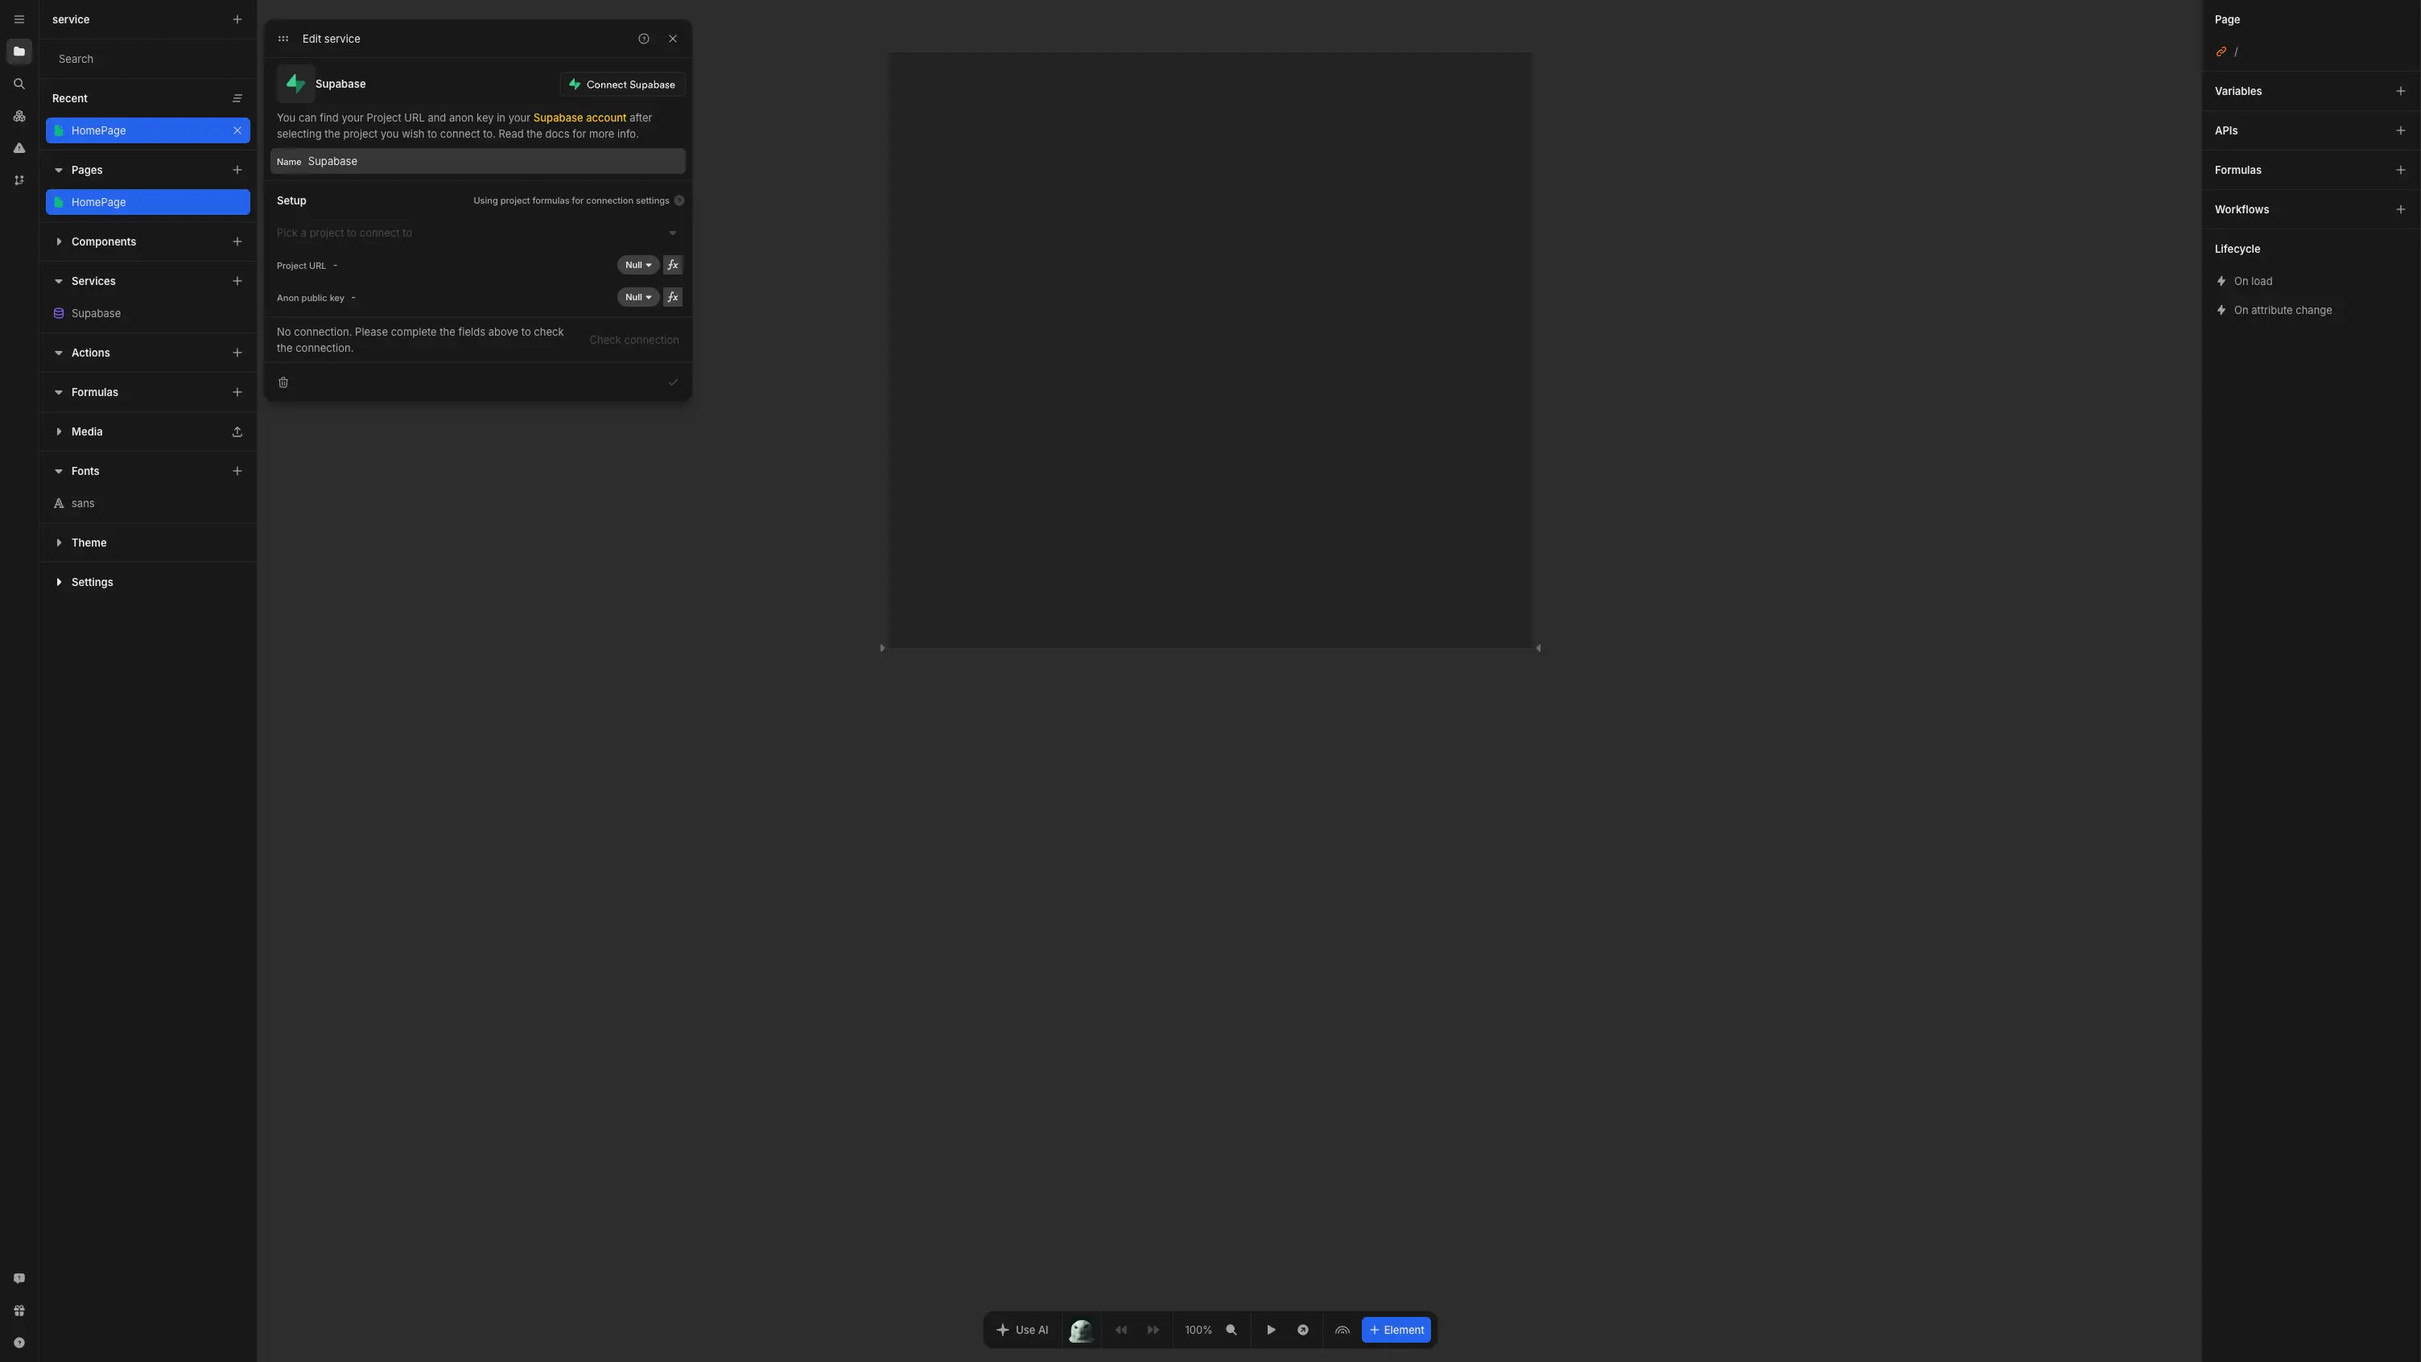
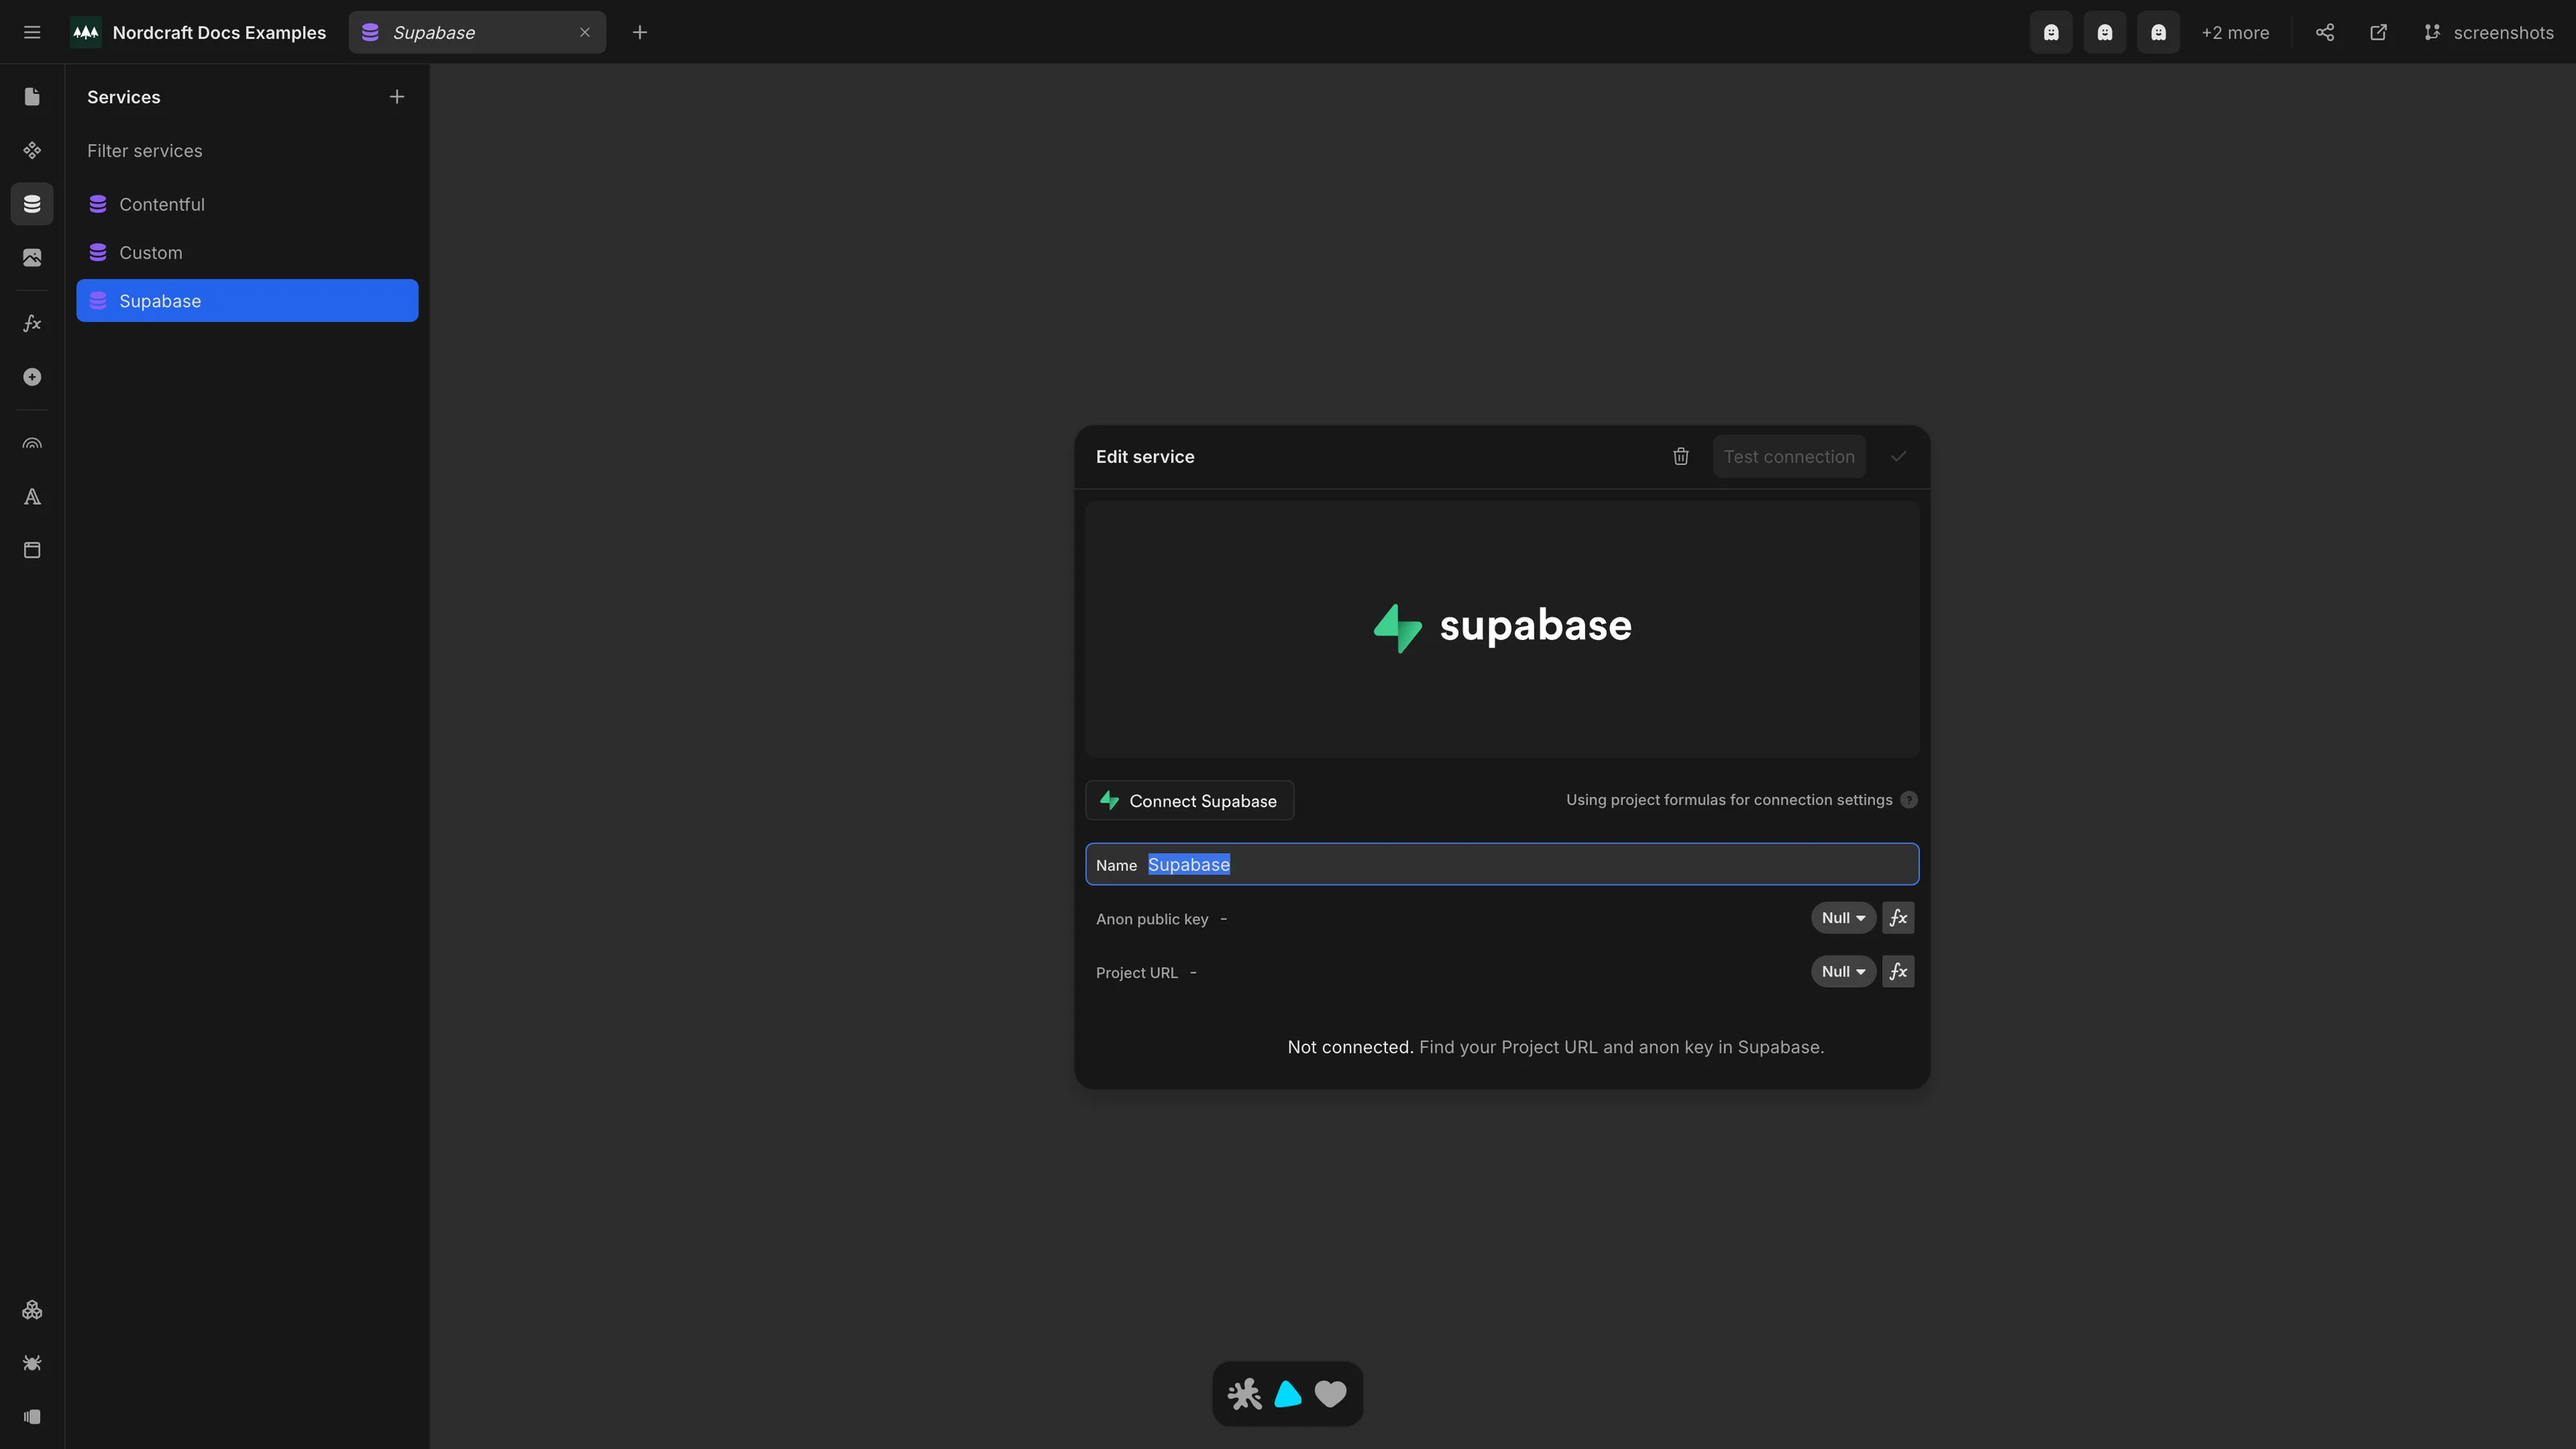
More screenshots

diff --git a/scripts/capture-screenshots.ts b/scripts/capture-screenshots.ts
@@ -318,19 +318,12 @@ export const TARGETS: ScreenshotTarget[] = [
     id: 'configure-supabase-service',
     name: 'configure-supabase-service',
     outputDir: 'docs/connecting-data/services',
-    path: '/projects/docs_examples/branches/screenshots/components/screenshot-page?canvas-width=800&canvas-height=800&leftpanel=services',
+    path: '/projects/docs_examples/branches/screenshots/services/connect-service?mode=design&leftpanel=services&canvas-tool=select&canvas-width=800&rightpanel=style',
     description: 'Configure Supabase service dialog',
     setup: async (page: Page) => {
       await page.waitForTimeout(500)
-      await page.evaluate(() => {
-        const btn = document.querySelector(
-          '[class*="sidebar-files:vz7XXhB7lnqyN7Z0ei9qX"]',
-        ) as HTMLElement
-        btn?.click()
-      })
-      await page.waitForTimeout(800)
-      await page.click('button:has-text("Supabase")').catch(() => {})
-      await page.waitForTimeout(800)
+      await page.locator('[data-test="create-service-item-supabase"]').click()
+      await page.waitForTimeout(300)
     },
   },
 
@@ -339,19 +332,12 @@ export const TARGETS: ScreenshotTarget[] = [
     id: 'configure-xano-service',
     name: 'configure-xano-service',
     outputDir: 'docs/connecting-data/services',
-    path: '/projects/docs_examples/branches/screenshots/components/screenshot-page?canvas-width=800&canvas-height=800&leftpanel=services',
+    path: '/projects/docs_examples/branches/screenshots/services/connect-service?mode=design&leftpanel=services&canvas-tool=select&canvas-width=800&rightpanel=style',
     description: 'Configure Xano service dialog',
     setup: async (page: Page) => {
       await page.waitForTimeout(500)
-      await page.evaluate(() => {
-        const btn = document.querySelector(
-          '[class*="sidebar-files:vz7XXhB7lnqyN7Z0ei9qX"]',
-        ) as HTMLElement
-        btn?.click()
-      })
-      await page.waitForTimeout(800)
-      await page.click('button:has-text("Xano")').catch(() => {})
-      await page.waitForTimeout(800)
+      await page.locator('[data-test="create-service-item-xano"]').click()
+      await page.waitForTimeout(1000)
     },
   },
 
